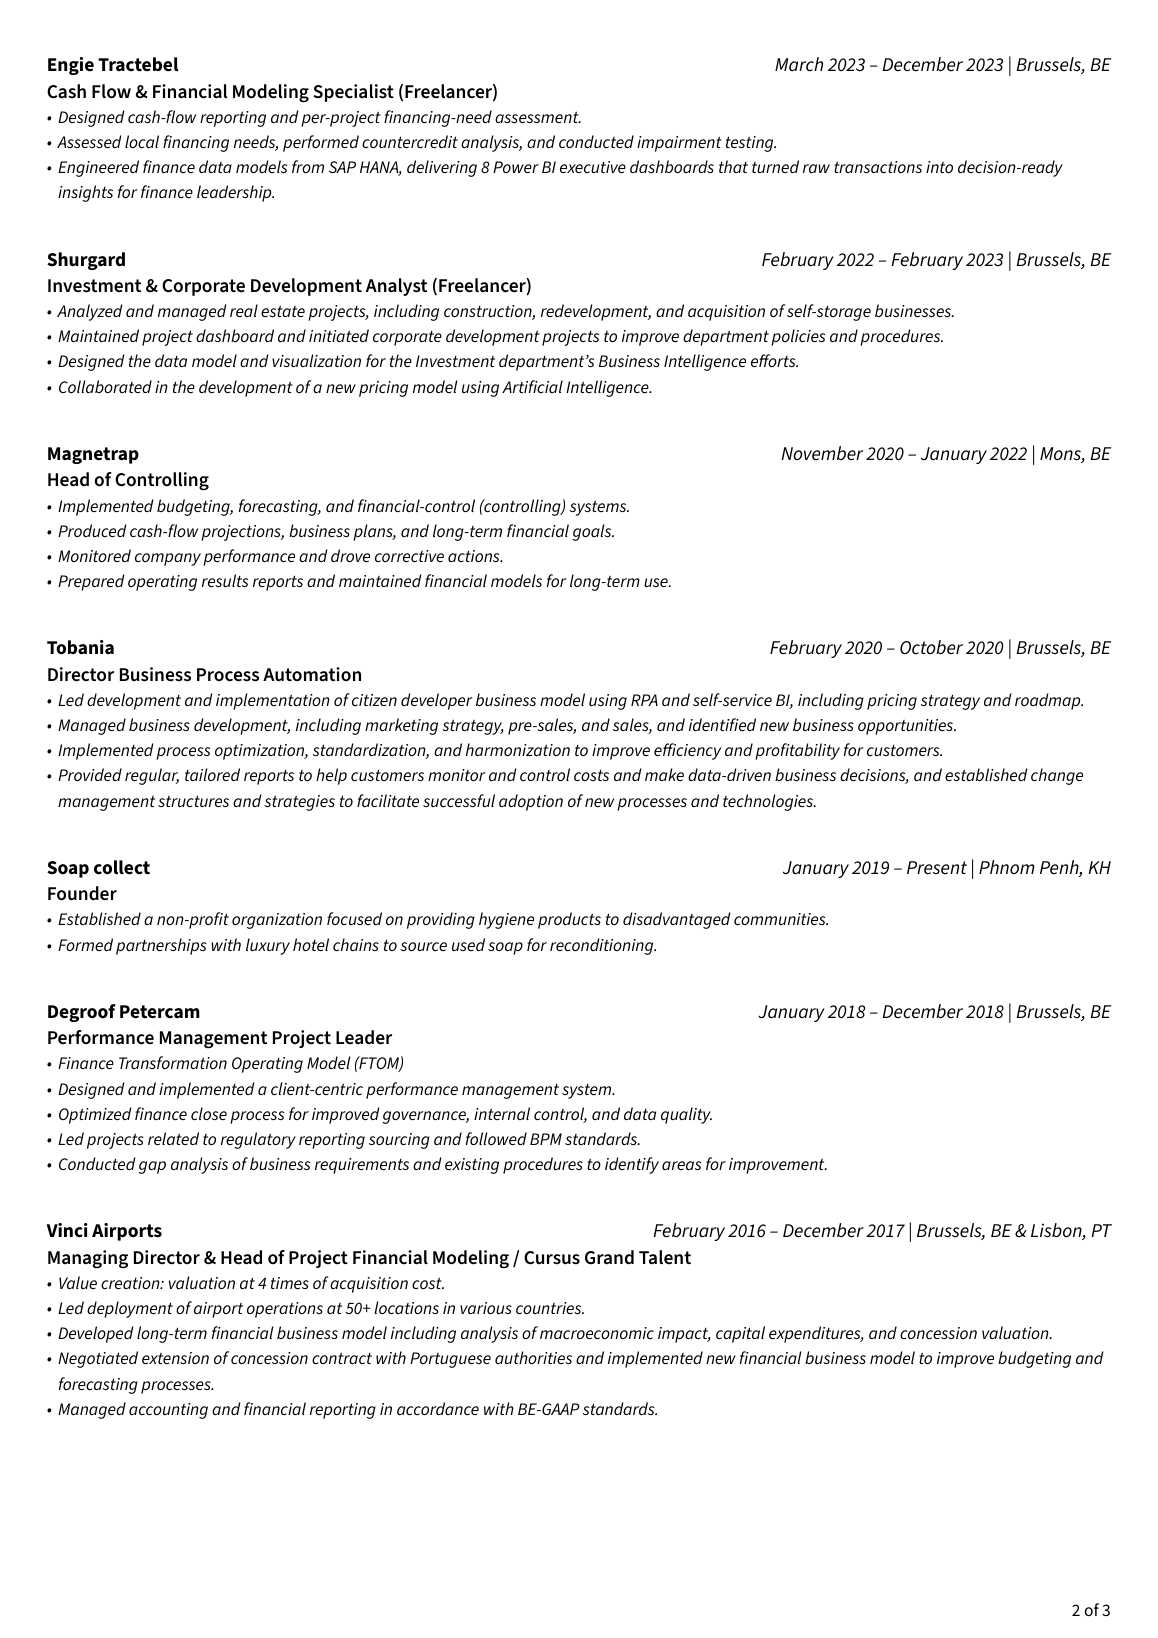
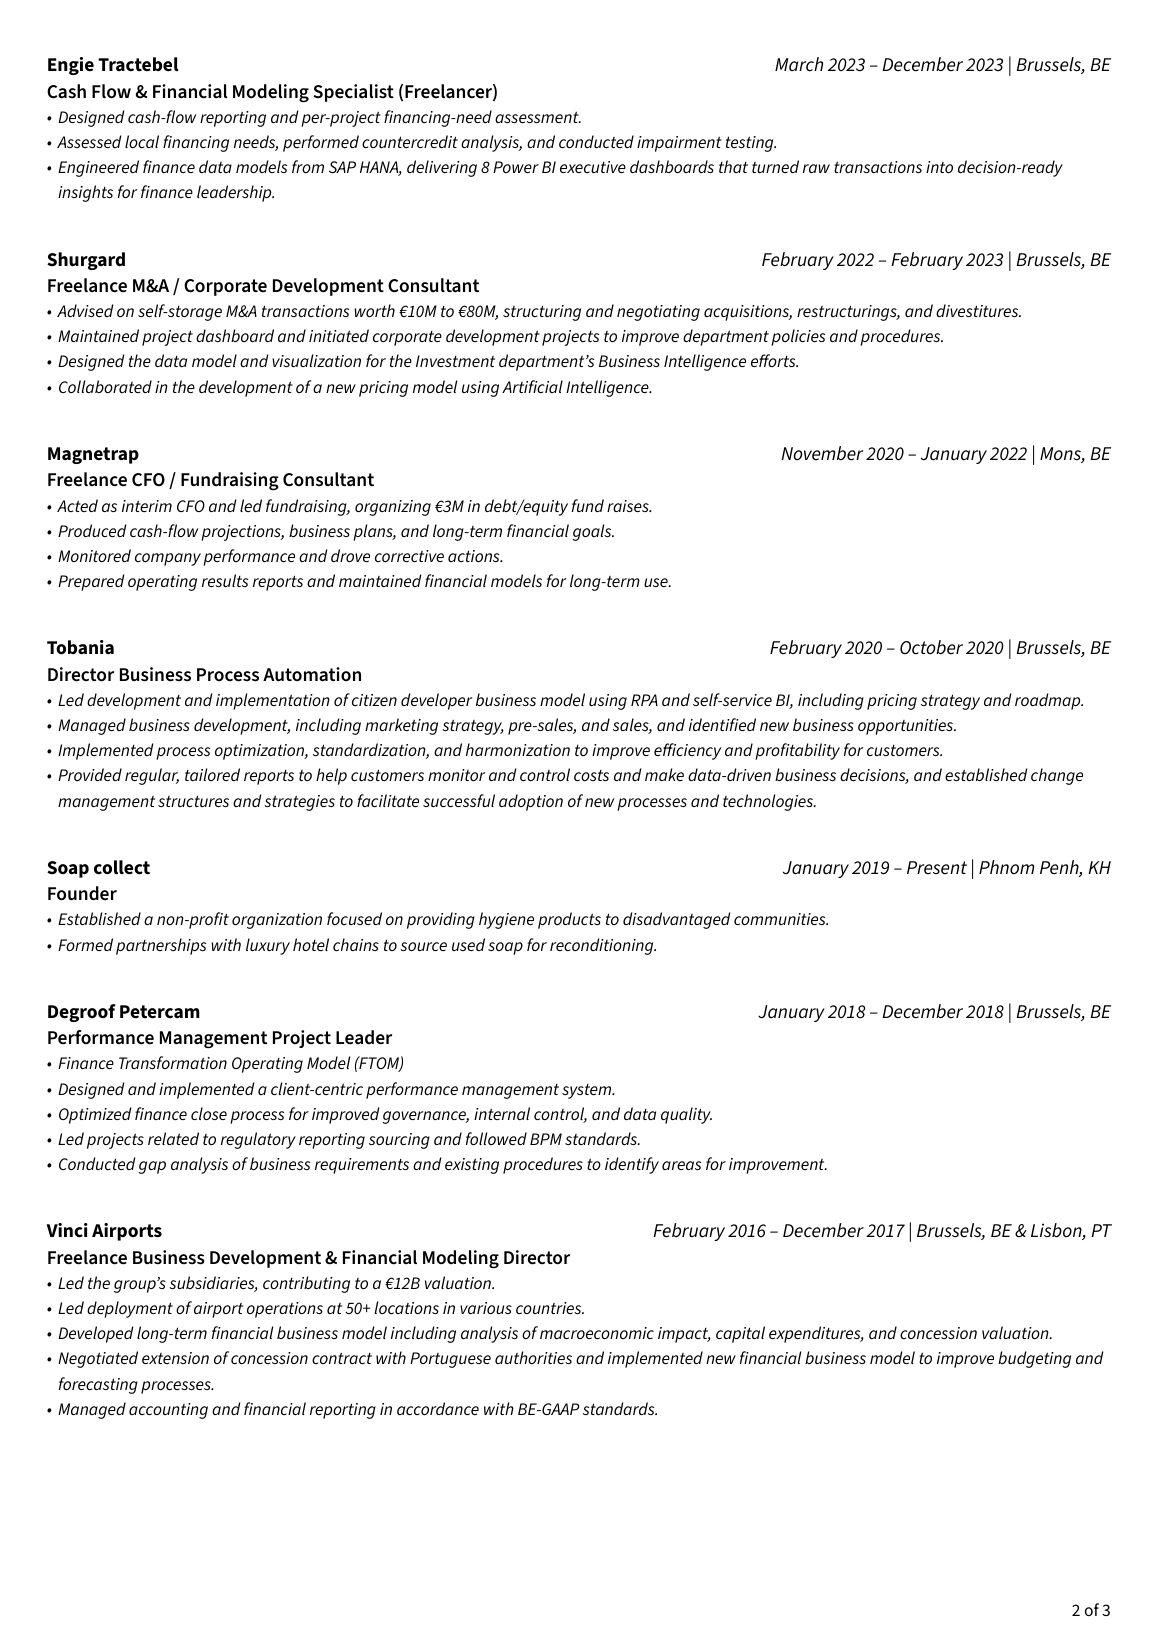
Freelance entries: rewrite 4 consulting titles + scope figures (Rexel €3B LATAM/APAC/Canada, Vinci €12B, Magnetrap €3M raises, Shurgard €10-80M deals); idempotent regeneration

Changed region(s): [[0.0622, 0.1557, 0.8705, 0.2179], [0.0311, 0.7473, 0.5907, 0.8095], [0.0311, 0.2802, 0.5285, 0.3114]]

diff --git a/gen_cv_typ.py b/gen_cv_typ.py
@@ -275,12 +275,12 @@ def main():
         ")\n\n"
         "#v(gap)\n\n"
         "#entry(\n"
-        '  "Investment & Corporate Development Analyst (Freelancer)",\n'
+        '  "Freelance M&A / Corporate Development Consultant",\n'
         '  "Shurgard",\n'
         '  "February 2022", "February 2023",\n'
         '  "Brussels, BE",\n'
         "  [\n"
-        "    - Analyzed and managed real estate projects, including construction, redevelopment, and acquisition of self-storage businesses.\n"
+        "    - Advised on self-storage M&A transactions worth €10M to €80M, structuring and negotiating acquisitions, restructurings, and divestitures.\n"
         "    - Maintained project dashboard and initiated corporate development projects to improve department policies and procedures.\n"
         "    - Designed the data model and visualization for the Investment department's Business Intelligence efforts.\n"
         "    - Collaborated in the development of a new pricing model using Artificial Intelligence.\n"
@@ -289,12 +289,12 @@ def main():
         ")\n\n"
         "#v(gap)\n\n"
         "#entry(\n"
-        '  "Head of Controlling",\n'
+        '  "Freelance CFO / Fundraising Consultant",\n'
         '  "Magnetrap",\n'
         '  "November 2020", "January 2022",\n'
         '  "Mons, BE",\n'
         "  [\n"
-        "    - Implemented budgeting, forecasting, and financial-control (controlling) systems.\n"
+        "    - Acted as interim CFO and led fundraising, organizing €3M in debt/equity fund raises.\n"
         "    - Produced cash-flow projections, business plans, and long-term financial goals.\n"
         "    - Monitored company performance and drove corrective actions.\n"
         "    - Prepared operating results reports and maintained financial models for long-term use.\n"
@@ -344,12 +344,12 @@ def main():
         ")\n\n"
         "#v(gap)\n\n"
         "#entry(\n"
-        '  "Managing Director & Head of Project Financial Modeling / Cursus Grand Talent",\n'
+        '  "Freelance Business Development & Financial Modeling Director",\n'
         '  "Vinci Airports",\n'
         '  "February 2016", "December 2017",\n'
         '  "Brussels, BE & Lisbon, PT",\n'
         "  [\n"
-        "    - Value creation: valuation at 4 times of acquisition cost.\n"
+        "    - Led the group's subsidiaries, contributing to a €12B valuation.\n"
         "    - Led deployment of airport operations at 50+ locations in various countries.\n"
         "    - Developed long-term financial business model including analysis of macroeconomic impact, capital expenditures, and concession valuation.\n"
         "    - Negotiated extension of concession contract with Portuguese authorities and implemented new financial business model to improve budgeting and forecasting processes.\n"
@@ -359,12 +359,12 @@ def main():
         ")\n\n"
         "#v(gap)\n\n"
         "#entry(\n"
-        '  "Reporting Consolidation Manager",\n'
+        '  "Freelance Finance Consolidation & Reporting Consultant",\n'
         '  "Rexel",\n'
         '  "September 2014", "January 2016",\n'
         '  "Paris, FR",\n'
         "  [\n"
-        "    - Operated within automobile-parts distribution (€500M turnover, 12 entities / 3 countries), overseeing GL consolidated reporting and aligning AP/AR flows for strong financial-close control.\n"
+        "    - Managed consolidated reporting across a €3B-turnover scope spanning LATAM, APAC, and Canada, aligning GL/AP/AR flows for strong financial-close control.\n"
         "    - Integrated SAP BPC and Cognos reporting, strengthening GL/AP consolidated reporting.\n"
         "    - Ran annual budgeting and monthly forecasting (actual vs. budget).\n"
         "  ],\n"
